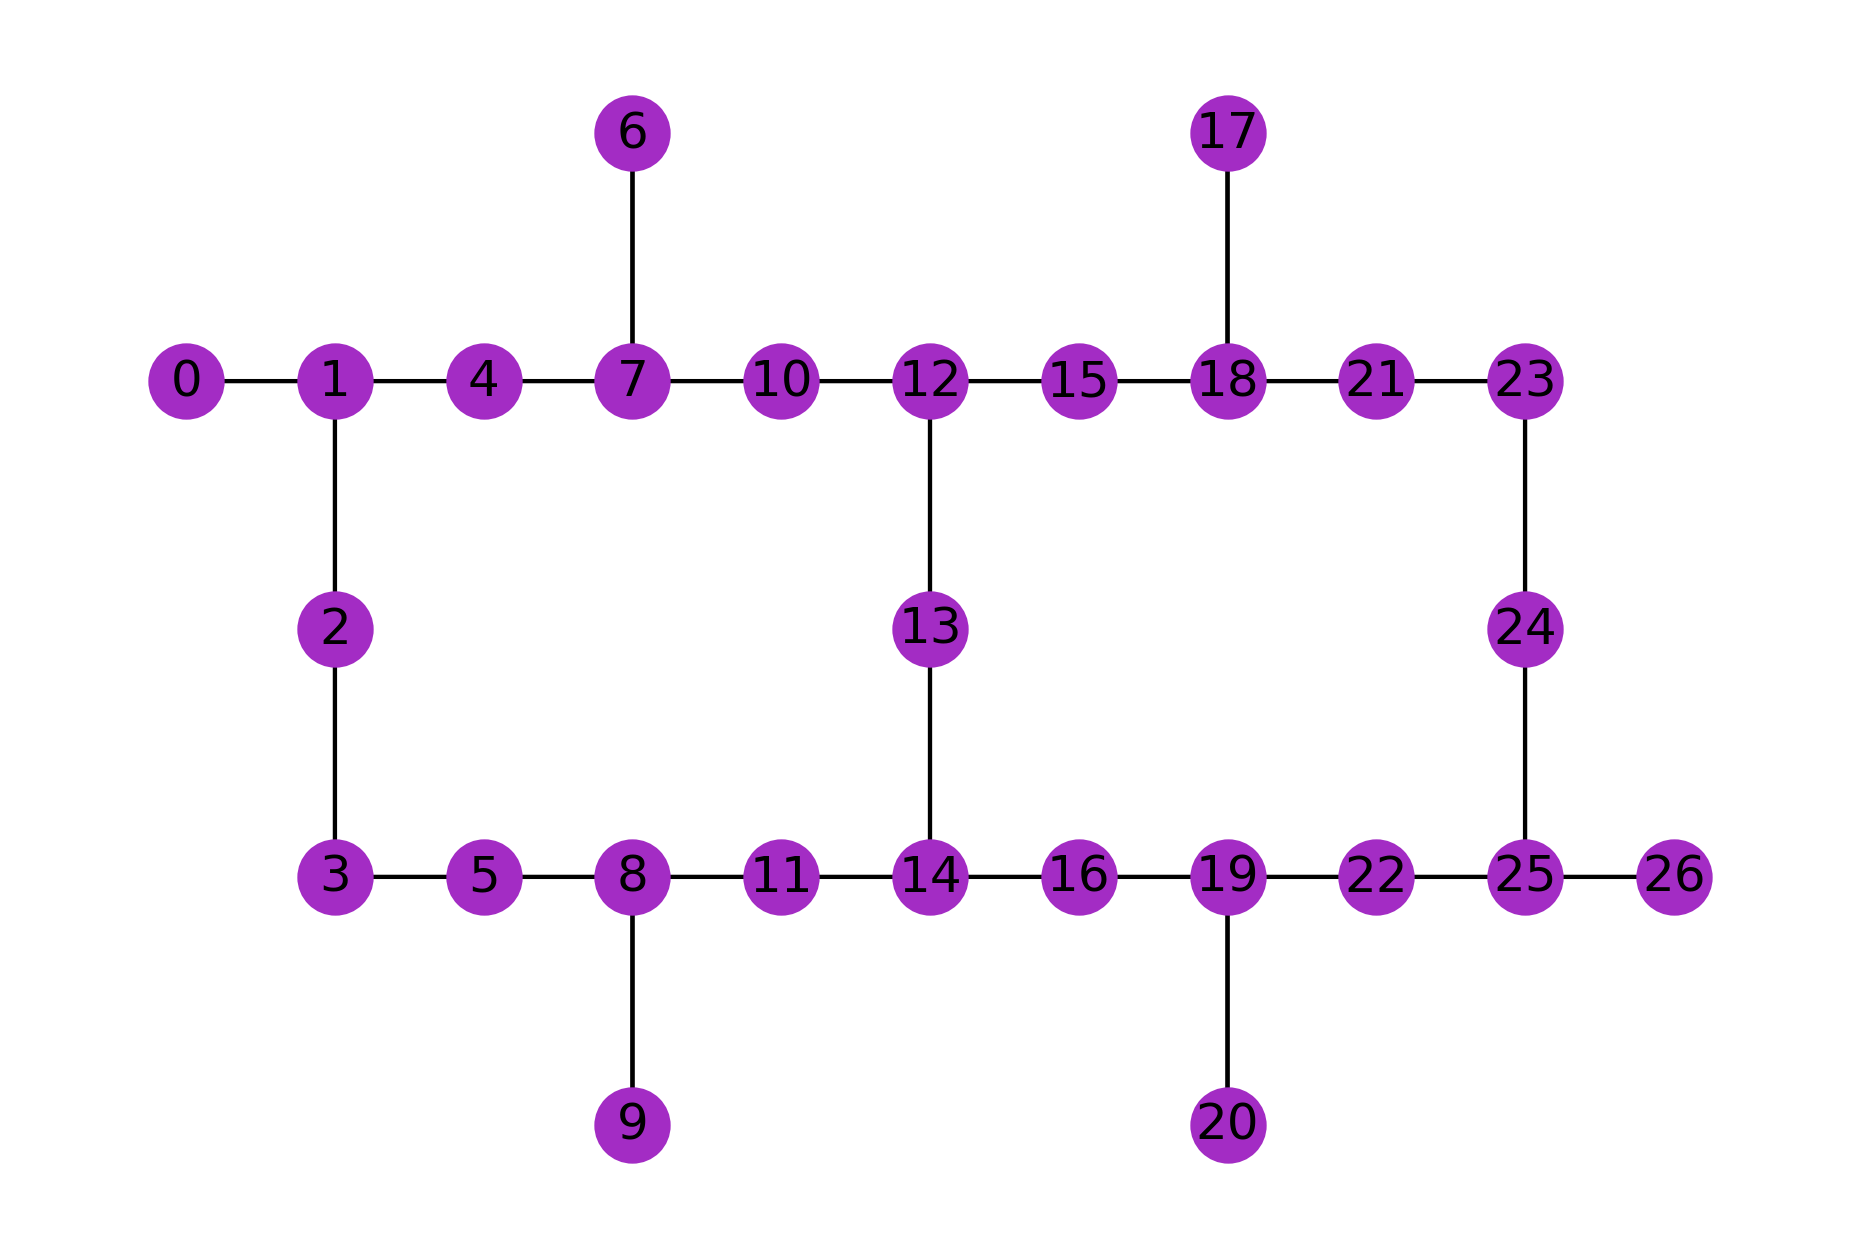
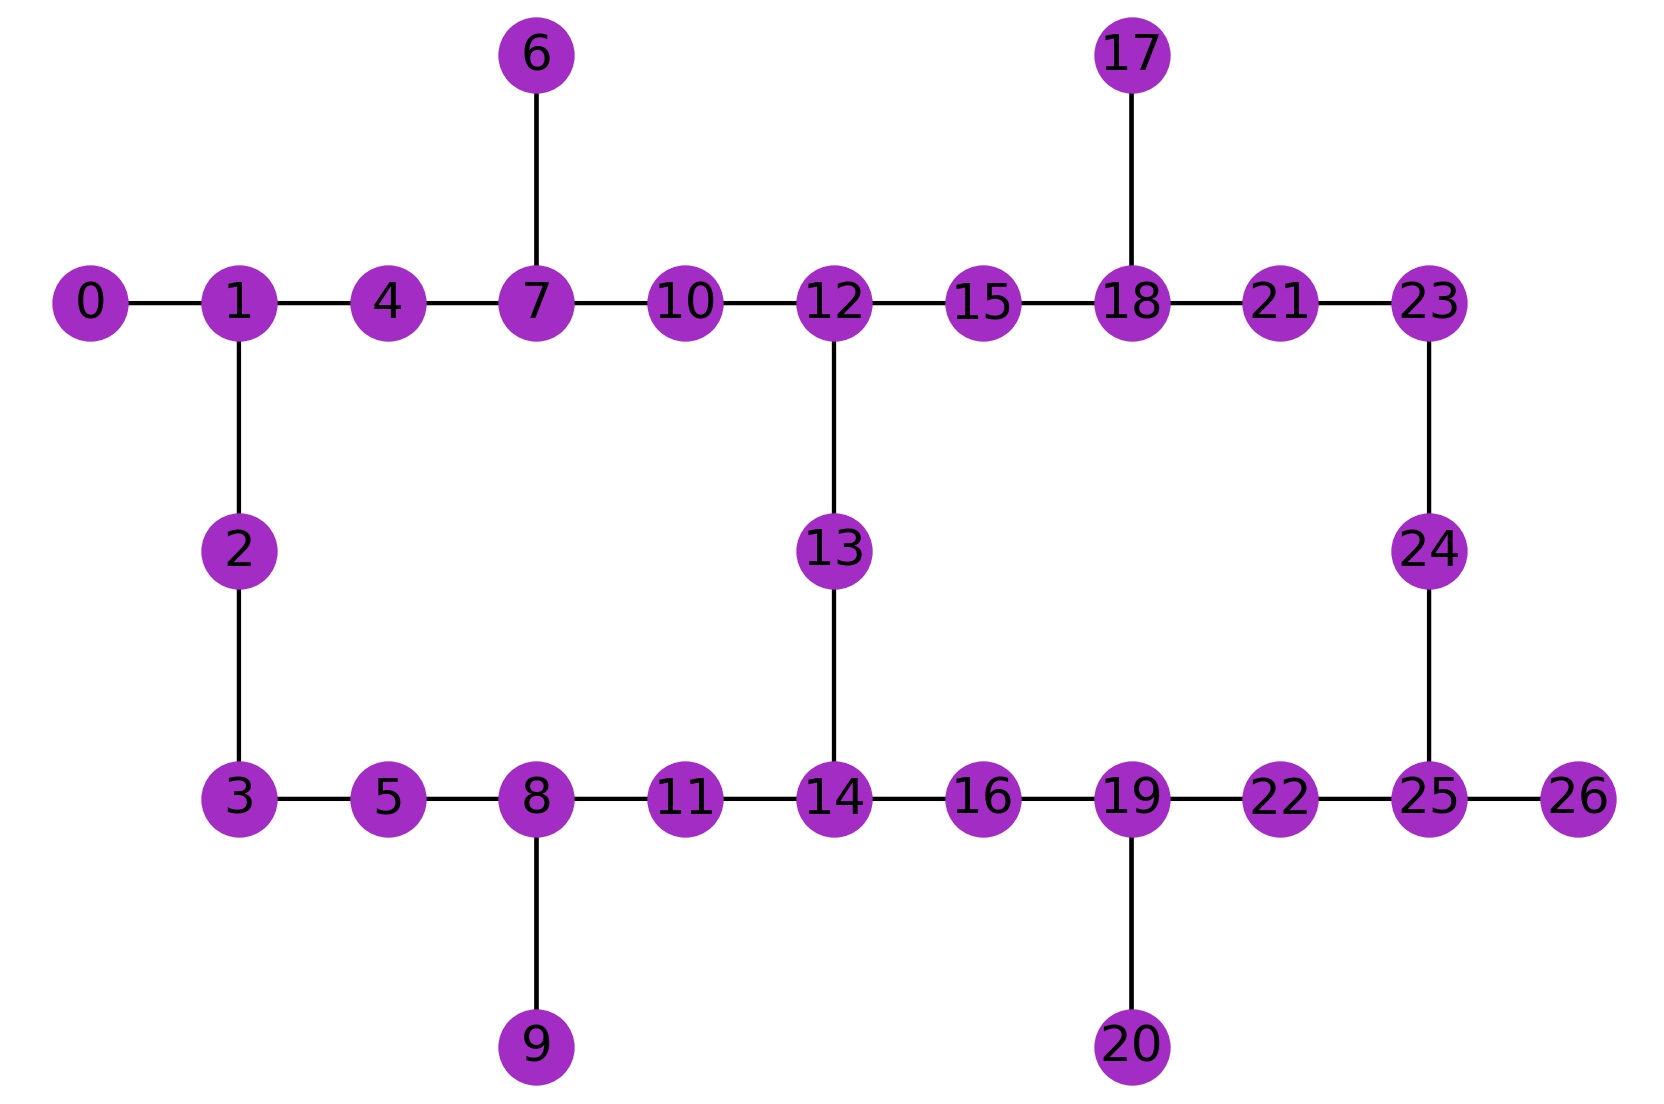
Tweak image size

diff --git a/paper.md b/paper.md
@@ -82,7 +82,7 @@ In addition, Qiskit needs to traverse the graph. Some transformations, such as g
 
 The second use case is based on qubit mapping problem for Noisy Intermediate-Scale Quantum (NISQ) devices [@Bharti2021]. NISQ devices do not have full connectivity among qubits, hence Qiskit needs to take into account an undirected graph representing the connectivity of the device when compiling quantum circuits. Qiskit transforms the quantum circuit such that the pairs of qubits executing two-qubit gates respect the device's architectural constraints. There are many proposed solutions to the qubit mapping problem, including algorithms based on subgraph isomorphism [@Li2021].
 
-![Graph representing the connectivity of the **`ibmq_montreal`** device. Qiskit can check if the required connectivity by a circuit is subgraph isomorphic to the device's connectivity when solving the qubit mapping problem.\label{fig:dagexample}](paper_img/example_coupling_map.png){ width=100% height==100% }
+![Graph representing the connectivity of the **`ibmq_montreal`** device. Qiskit can check if the required connectivity by a circuit is subgraph isomorphic to the device's connectivity when solving the qubit mapping problem.\label{fig:dagexample}](paper_img/example_coupling_map.png){ width=70% height==50% }
 
 _retworkx_ implements both VF2 [@Cordella2004] and VF2++ [@Juttner2018] algorithms to solve subgraph isomorphism. The implementations include both checking if a mapping exists and returning a mapping among the nodes. Qiskit leverages _retworkx_ to provide an experimental layout method based on VF2++. Qiskit checks if the graph representing the connectvity required by the circuit and the connectivity provided by the device are subgraph isomorphic. If they are, Qiskit uses VF2++ mapping to map the qubits without adding SWAP instructions to the quantum circuit. 
 
